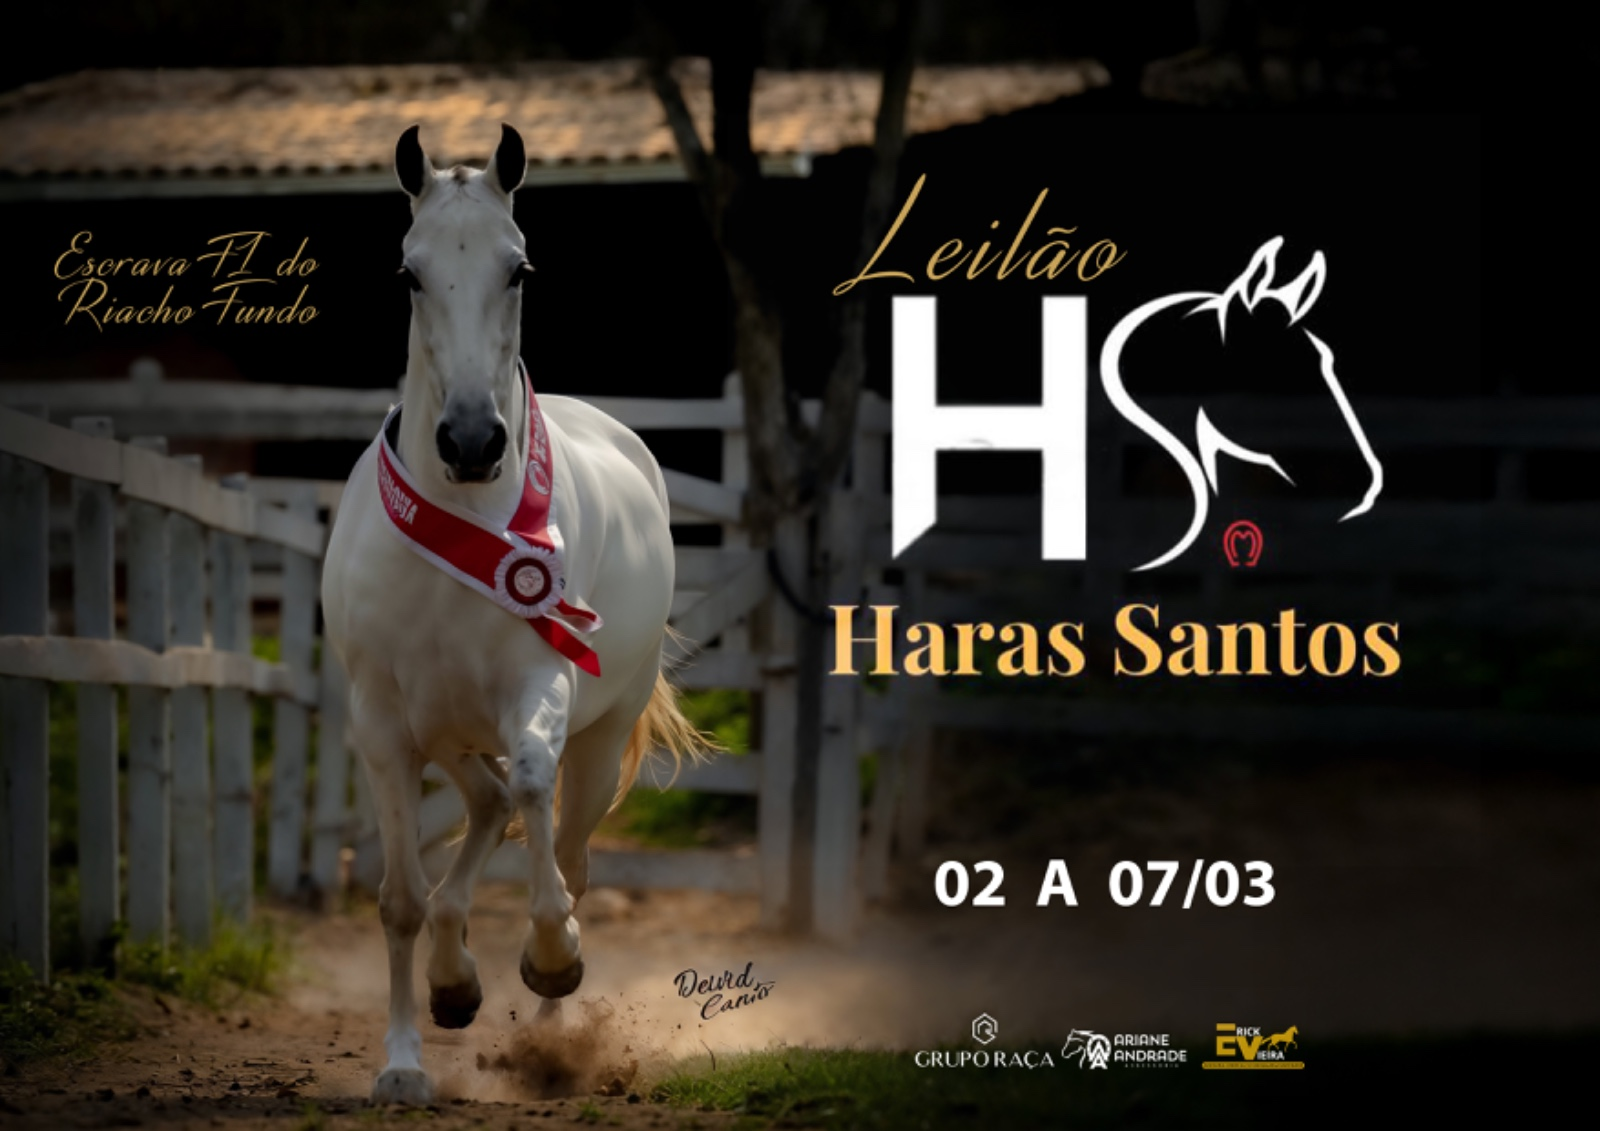
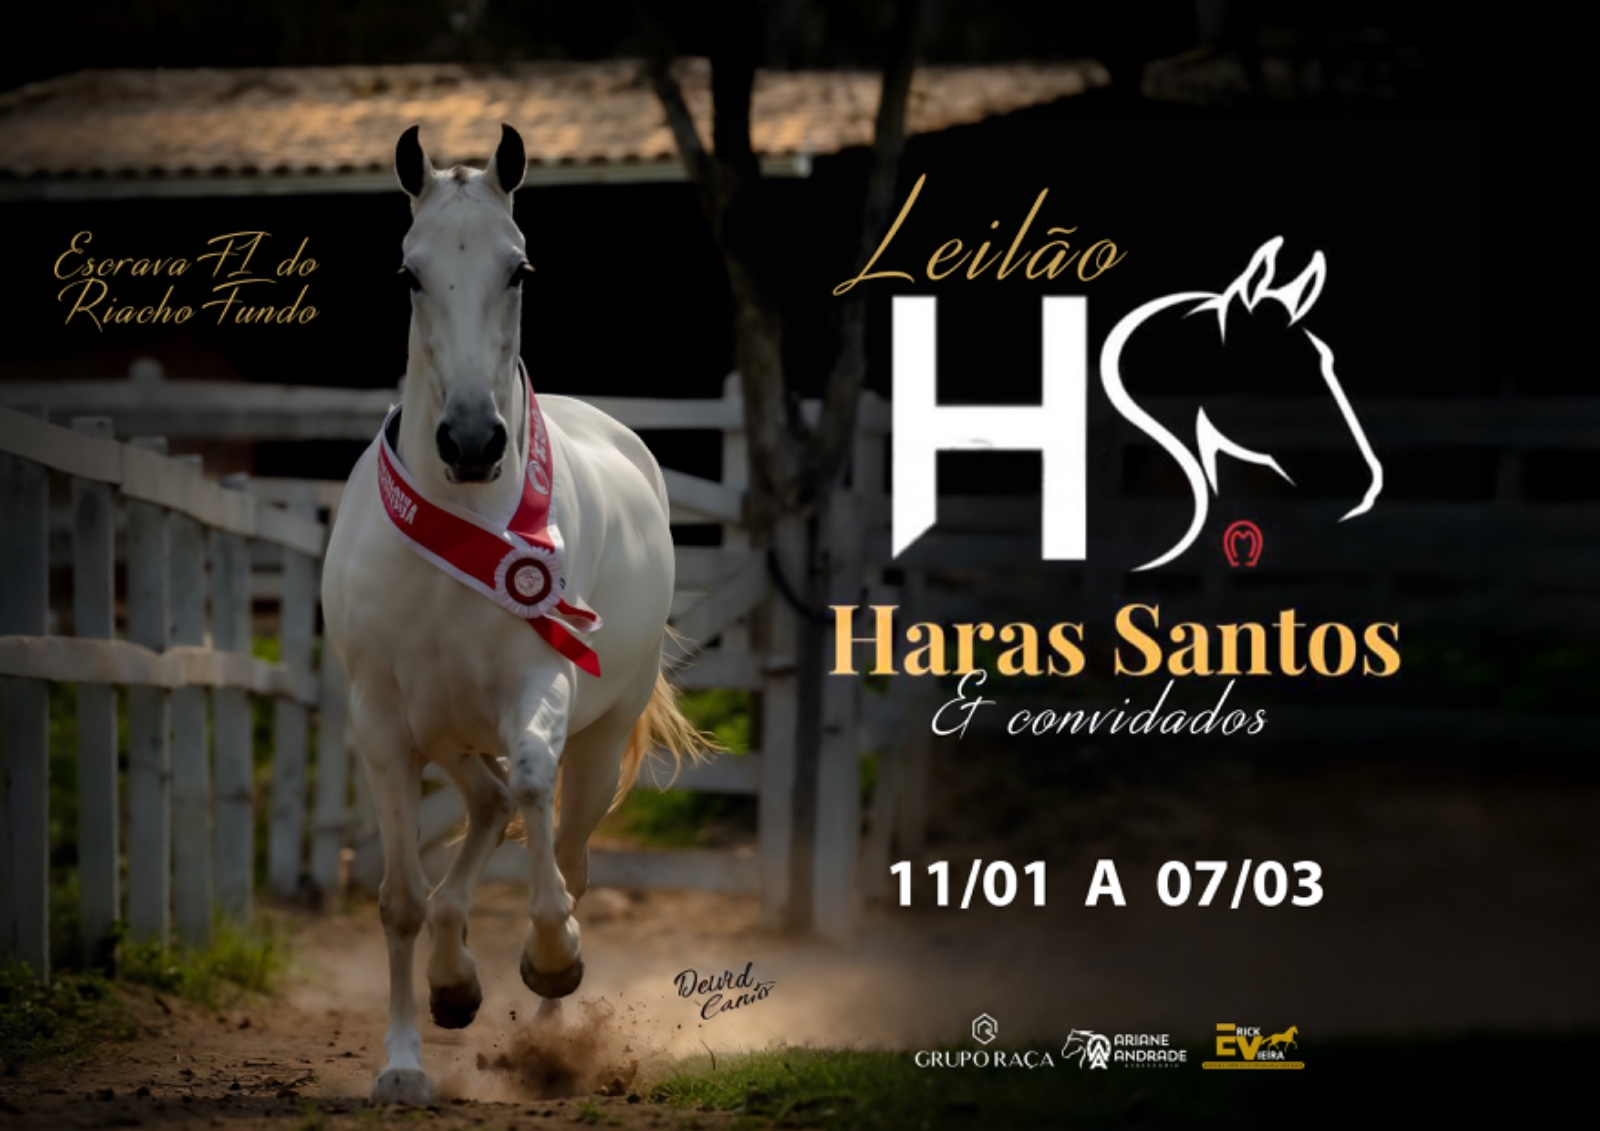
Atualizar L05: corrigir datas do LeilÃ£o Haras Santos & Convidados (11/01 a 07/03) e reordenar leilÃµes cronologicamente

Changed region(s): [[0.5625, 0.7427, 0.8438, 0.8046], [0.5625, 0.588, 0.8125, 0.6499]]

diff --git a/src/components/FeaturedAuctions.tsx b/src/components/FeaturedAuctions.tsx
@@ -10,6 +10,15 @@ function createDate(year: number, month: number, day: number): Date {
 const auctions = [
   {
     id: 1,
+    title: 'Leilão Haras Santos & Convidados',
+    date: '11 de janeiro a 07 de março',
+    startDate: createDate(2026, 1, 11),
+    endDate: createDate(2026, 3, 7),
+    breed: 'Mangalarga Marchador',
+    image: '/leiloes/L05.jpeg'
+  },
+  {
+    id: 2,
     title: 'Leilão Edição Especial Marchadores de Pista',
     date: '12 de janeiro a 12 de fevereiro',
     startDate: createDate(2026, 1, 12),
@@ -18,7 +27,7 @@ const auctions = [
     image: '/leiloes/L02.jpeg'
   },
   {
-    id: 2,
+    id: 3,
     title: 'Leilão Genética Campeã Haras Pardal',
     date: '19 a 24 de janeiro',
     startDate: createDate(2026, 1, 19),
@@ -27,7 +36,7 @@ const auctions = [
     image: '/leiloes/L03.jpeg'
   },
   {
-    id: 3,
+    id: 4,
     title: 'Leilão Riacho das Pedras e Amigos Mar de Minas',
     date: '19 a 24 de janeiro',
     startDate: createDate(2026, 1, 19),
@@ -36,7 +45,7 @@ const auctions = [
     image: '/leiloes/L07.jpeg'
   },
   {
-    id: 4,
+    id: 5,
     title: 'Semana de Negócios Haras Q-Conforto',
     date: '07 a 12 de fevereiro',
     startDate: createDate(2026, 2, 7),
@@ -45,22 +54,13 @@ const auctions = [
     image: '/leiloes/L01.jpeg'
   },
   {
-    id: 5,
+    id: 6,
     title: 'V Leilão Amigos do Triângulo',
     date: '12 de fevereiro',
     startDate: createDate(2026, 2, 12),
     endDate: createDate(2026, 2, 12),
     breed: 'Campolina Marchador',
     image: '/leiloes/L04.jpeg'
-  },
-  {
-    id: 6,
-    title: 'Leilão Haras Santos & Convidados',
-    date: '02 a 07 de março',
-    startDate: createDate(2026, 3, 2),
-    endDate: createDate(2026, 3, 7),
-    breed: 'Mangalarga Marchador',
-    image: '/leiloes/L05.jpeg'
   },
   {
     id: 7,
